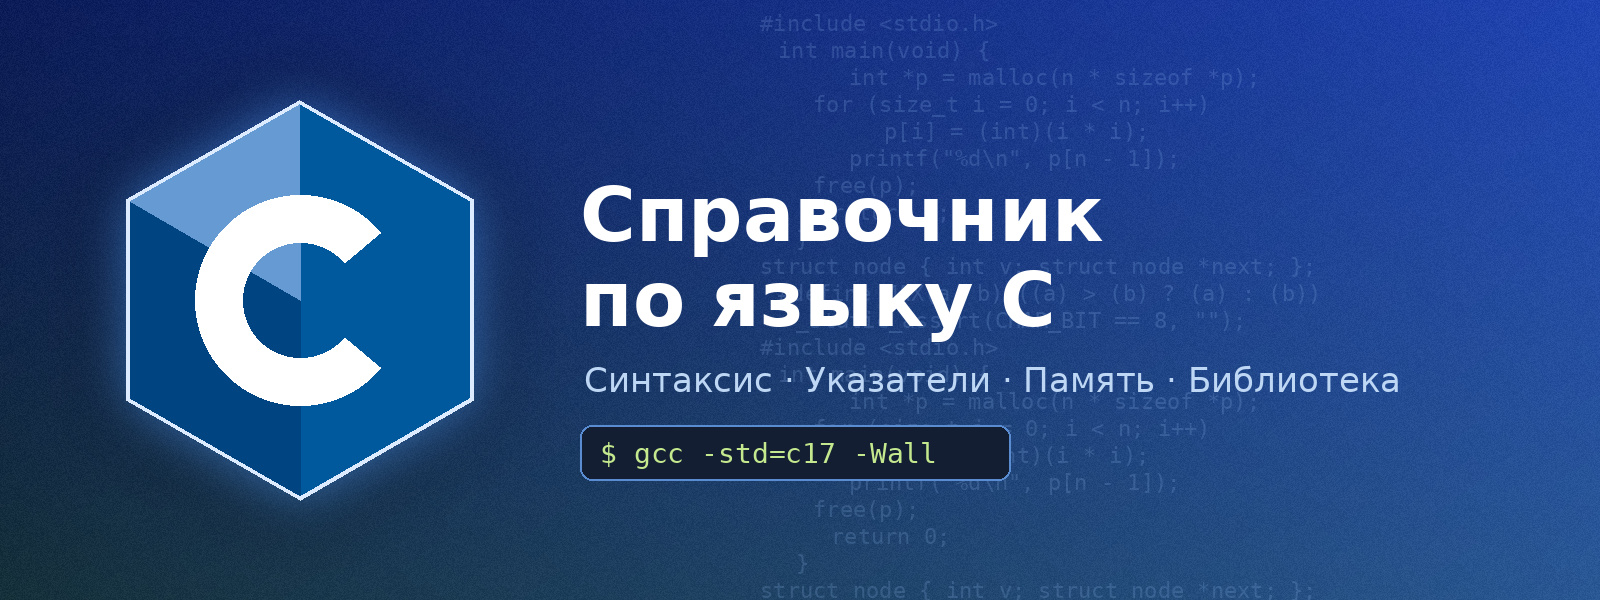
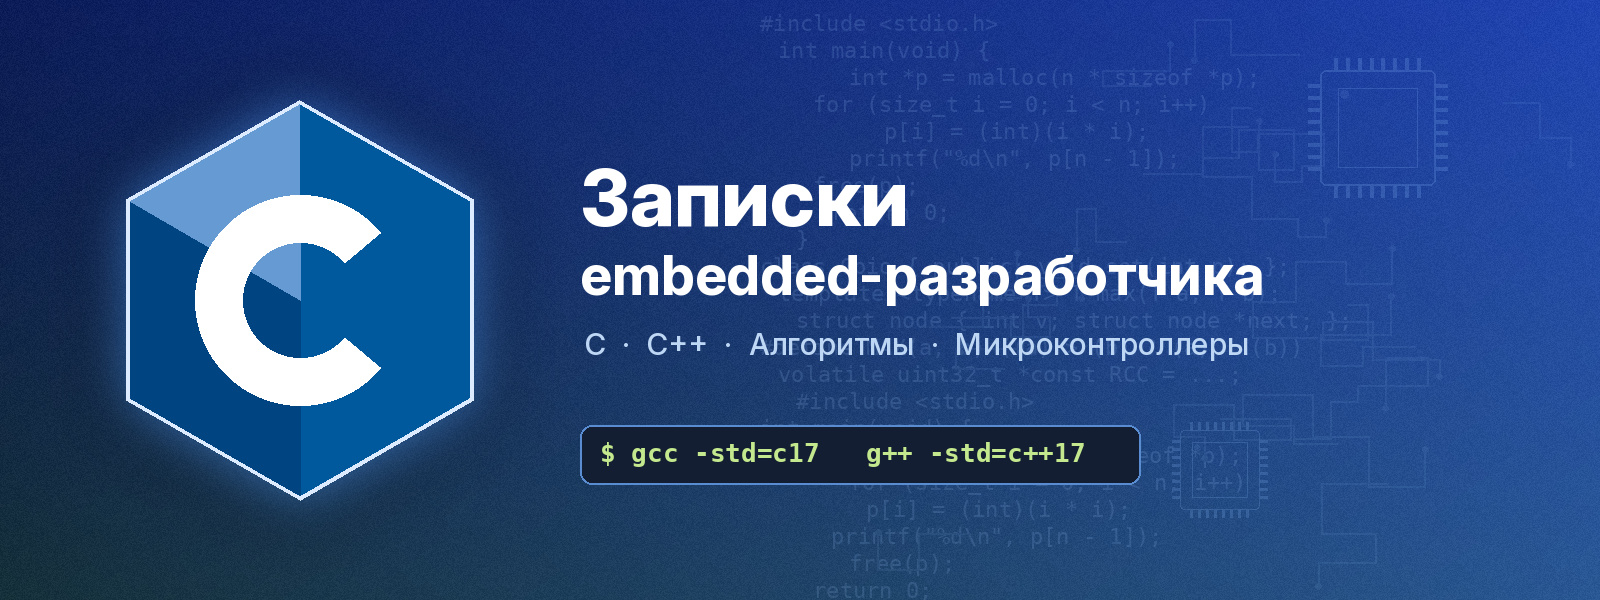
V2.2

diff --git a/index.html b/index.html
@@ -8,6 +8,8 @@
 <link rel="preload" href="assets/fonts/jetbrains-mono-latin-400.woff2" as="font" type="font/woff2" crossorigin>
 <link rel="stylesheet" href="style.css">
 <link rel="icon" href="assets/favicon.svg" type="image/svg+xml">
+<link rel="icon" href="assets/favicon.ico" sizes="48x48 32x32 16x16">
+<link rel="apple-touch-icon" href="assets/apple-touch-icon.png" sizes="180x180">
 </head>
 <body>
 <header class="topbar">
@@ -69,9 +71,10 @@
 <img class="hero" src="image.jpg" alt="Баннер: Записки embedded-разработчика" width="1600" height="600">
 <h1>Записки embedded-разработчика</h1>
 
-<p class="lead">Это уже не только справочник по C. Здесь собраны четыре темы, которые нужны
-embedded-разработчику: язык <b>C</b> (C11/C17), введение в <b>C++17</b>, <b>общие вопросы</b>
-(алгоритмы, структуры данных, FAQ) и задел под <b>программирование микроконтроллеров</b>.</p>
+<p class="lead">Краткие записки и справочные материалы для embedded-разработчика.
+На сайте собраны разделы по языку <b>C</b> (C11/C17), введение в <b>C++17</b>,
+общие темы — алгоритмы и структуры данных — и программирование микроконтроллеров
+(раздел пока в разработке).</p>
 <p>Примеры на C компилируются командой <code>gcc -std=c17 -Wall -Wextra</code>,
 примеры на C++ — командой <code>g++ -std=c++17 -Wall -Wextra</code> без предупреждений.</p>
 
@@ -144,17 +147,16 @@ embedded-разработчику: язык <b>C</b> (C11/C17), введение
 </section>
 
 <h2>О сайте</h2>
-<p>Сайт сделан как индивидуальный проект к лабораторной работе 2.1 «Настройка CDN для статического веб-сайта».
-Это набор однотипных HTML-страниц с общей таблицей стилей <code>style.css</code>, локальным подсветчиком
-синтаксиса (<a href="assets/js/PRISM-LICENSE.txt">Prism, лицензия MIT</a>) и локальным шрифтом JetBrains Mono
-(<a href="assets/fonts/OFL.txt">SIL Open Font License</a>). Внешних CDN-зависимостей нет, поэтому весь
-трафик идёт с Origin-сервера и удобно анализируется в Cloudflare: HTML-страницы дают высокий Cache Hit Ratio,
-а шрифты, CSS и JS подходят для долгого TTL.</p>
+<p>Сайт сделан как мини-проект: набор однотипных HTML-страниц с общей таблицей стилей <code>style.css</code>,
+локальным подсветчиком синтаксиса (<a href="assets/js/PRISM-LICENSE.txt">Prism, лицензия MIT</a>)
+и локальным шрифтом JetBrains Mono (<a href="assets/fonts/OFL.txt">SIL Open Font License</a>).
+Внешних CDN-зависимостей нет, поэтому весь трафик идёт с Origin-сервера и удобно анализируется
+в Cloudflare: HTML-страницы дают высокий Cache Hit Ratio, а шрифты, CSS и JS подходят для долгого TTL.</p>
 <nav class="pager" aria-label="Соседние страницы"><a class="next" href="c/index.html">Обзор языка C →</a></nav>
 </main>
 </div>
 <footer class="footer">
-<p>Записки embedded-разработчика — учебный проект для лабораторной работы «Настройка CDN для статического веб-сайта».
+<p>Записки embedded-разработчика — мини-проект.
 Подсветка: <a href="assets/js/PRISM-LICENSE.txt">Prism (MIT)</a>. Шрифт: JetBrains Mono (<a href="assets/fonts/OFL.txt">OFL 1.1</a>).</p>
 </footer>
 <script src="assets/js/prism.js"></script>

diff --git a/language/functions.html b/language/functions.html
@@ -8,6 +8,8 @@
 <link rel="preload" href="../assets/fonts/jetbrains-mono-latin-400.woff2" as="font" type="font/woff2" crossorigin>
 <link rel="stylesheet" href="../style.css">
 <link rel="icon" href="../assets/favicon.svg" type="image/svg+xml">
+<link rel="icon" href="../assets/favicon.ico" sizes="48x48 32x32 16x16">
+<link rel="apple-touch-icon" href="../assets/apple-touch-icon.png" sizes="180x180">
 </head>
 <body>
 <header class="topbar">
@@ -216,7 +218,7 @@ int main(int argc, char *argv[])
 </main>
 </div>
 <footer class="footer">
-<p>Записки embedded-разработчика — учебный проект для лабораторной работы «Настройка CDN для статического веб-сайта».
+<p>Записки embedded-разработчика — мини-проект.
 Подсветка: <a href="../assets/js/PRISM-LICENSE.txt">Prism (MIT)</a>. Шрифт: JetBrains Mono (<a href="../assets/fonts/OFL.txt">OFL 1.1</a>).</p>
 </footer>
 <script src="../assets/js/prism.js"></script>

diff --git a/library/file-io.html b/library/file-io.html
@@ -8,6 +8,8 @@
 <link rel="preload" href="../assets/fonts/jetbrains-mono-latin-400.woff2" as="font" type="font/woff2" crossorigin>
 <link rel="stylesheet" href="../style.css">
 <link rel="icon" href="../assets/favicon.svg" type="image/svg+xml">
+<link rel="icon" href="../assets/favicon.ico" sizes="48x48 32x32 16x16">
+<link rel="apple-touch-icon" href="../assets/apple-touch-icon.png" sizes="180x180">
 </head>
 <body>
 <header class="topbar">
@@ -209,7 +211,7 @@ int main(int argc, char *argv[])
 </main>
 </div>
 <footer class="footer">
-<p>Записки embedded-разработчика — учебный проект для лабораторной работы «Настройка CDN для статического веб-сайта».
+<p>Записки embedded-разработчика — мини-проект.
 Подсветка: <a href="../assets/js/PRISM-LICENSE.txt">Prism (MIT)</a>. Шрифт: JetBrains Mono (<a href="../assets/fonts/OFL.txt">OFL 1.1</a>).</p>
 </footer>
 <script src="../assets/js/prism.js"></script>

diff --git a/cpp/differences.html b/cpp/differences.html
@@ -8,6 +8,8 @@
 <link rel="preload" href="../assets/fonts/jetbrains-mono-latin-400.woff2" as="font" type="font/woff2" crossorigin>
 <link rel="stylesheet" href="../style.css">
 <link rel="icon" href="../assets/favicon.svg" type="image/svg+xml">
+<link rel="icon" href="../assets/favicon.ico" sizes="48x48 32x32 16x16">
+<link rel="apple-touch-icon" href="../assets/apple-touch-icon.png" sizes="180x180">
 </head>
 <body>
 <header class="topbar">
@@ -174,7 +176,7 @@ int add(int a, int b);
 </main>
 </div>
 <footer class="footer">
-<p>Записки embedded-разработчика — учебный проект для лабораторной работы «Настройка CDN для статического веб-сайта».
+<p>Записки embedded-разработчика — мини-проект.
 Подсветка: <a href="../assets/js/PRISM-LICENSE.txt">Prism (MIT)</a>. Шрифт: JetBrains Mono (<a href="../assets/fonts/OFL.txt">OFL 1.1</a>).</p>
 </footer>
 <script src="../assets/js/prism.js"></script>

diff --git a/algorithms/complexity.html b/algorithms/complexity.html
@@ -8,6 +8,8 @@
 <link rel="preload" href="../assets/fonts/jetbrains-mono-latin-400.woff2" as="font" type="font/woff2" crossorigin>
 <link rel="stylesheet" href="../style.css">
 <link rel="icon" href="../assets/favicon.svg" type="image/svg+xml">
+<link rel="icon" href="../assets/favicon.ico" sizes="48x48 32x32 16x16">
+<link rel="apple-touch-icon" href="../assets/apple-touch-icon.png" sizes="180x180">
 </head>
 <body>
 <header class="topbar">
@@ -128,7 +130,7 @@ int main(void)
 </main>
 </div>
 <footer class="footer">
-<p>Записки embedded-разработчика — учебный проект для лабораторной работы «Настройка CDN для статического веб-сайта».
+<p>Записки embedded-разработчика — мини-проект.
 Подсветка: <a href="../assets/js/PRISM-LICENSE.txt">Prism (MIT)</a>. Шрифт: JetBrains Mono (<a href="../assets/fonts/OFL.txt">OFL 1.1</a>).</p>
 </footer>
 <script src="../assets/js/prism.js"></script>

diff --git a/algorithms/data-structures.html b/algorithms/data-structures.html
@@ -8,6 +8,8 @@
 <link rel="preload" href="../assets/fonts/jetbrains-mono-latin-400.woff2" as="font" type="font/woff2" crossorigin>
 <link rel="stylesheet" href="../style.css">
 <link rel="icon" href="../assets/favicon.svg" type="image/svg+xml">
+<link rel="icon" href="../assets/favicon.ico" sizes="48x48 32x32 16x16">
+<link rel="apple-touch-icon" href="../assets/apple-touch-icon.png" sizes="180x180">
 </head>
 <body>
 <header class="topbar">
@@ -234,7 +236,7 @@ int main(void)
 </main>
 </div>
 <footer class="footer">
-<p>Записки embedded-разработчика — учебный проект для лабораторной работы «Настройка CDN для статического веб-сайта».
+<p>Записки embedded-разработчика — мини-проект.
 Подсветка: <a href="../assets/js/PRISM-LICENSE.txt">Prism (MIT)</a>. Шрифт: JetBrains Mono (<a href="../assets/fonts/OFL.txt">OFL 1.1</a>).</p>
 </footer>
 <script src="../assets/js/prism.js"></script>

diff --git a/algorithms/primes.html b/algorithms/primes.html
@@ -8,6 +8,8 @@
 <link rel="preload" href="../assets/fonts/jetbrains-mono-latin-400.woff2" as="font" type="font/woff2" crossorigin>
 <link rel="stylesheet" href="../style.css">
 <link rel="icon" href="../assets/favicon.svg" type="image/svg+xml">
+<link rel="icon" href="../assets/favicon.ico" sizes="48x48 32x32 16x16">
+<link rel="apple-touch-icon" href="../assets/apple-touch-icon.png" sizes="180x180">
 </head>
 <body>
 <header class="topbar">
@@ -142,7 +144,7 @@ int main(void)
 </main>
 </div>
 <footer class="footer">
-<p>Записки embedded-разработчика — учебный проект для лабораторной работы «Настройка CDN для статического веб-сайта».
+<p>Записки embedded-разработчика — мини-проект.
 Подсветка: <a href="../assets/js/PRISM-LICENSE.txt">Prism (MIT)</a>. Шрифт: JetBrains Mono (<a href="../assets/fonts/OFL.txt">OFL 1.1</a>).</p>
 </footer>
 <script src="../assets/js/prism.js"></script>

diff --git a/algorithms/recursion.html b/algorithms/recursion.html
@@ -8,6 +8,8 @@
 <link rel="preload" href="../assets/fonts/jetbrains-mono-latin-400.woff2" as="font" type="font/woff2" crossorigin>
 <link rel="stylesheet" href="../style.css">
 <link rel="icon" href="../assets/favicon.svg" type="image/svg+xml">
+<link rel="icon" href="../assets/favicon.ico" sizes="48x48 32x32 16x16">
+<link rel="apple-touch-icon" href="../assets/apple-touch-icon.png" sizes="180x180">
 </head>
 <body>
 <header class="topbar">
@@ -151,7 +153,7 @@ int main(void)
 </main>
 </div>
 <footer class="footer">
-<p>Записки embedded-разработчика — учебный проект для лабораторной работы «Настройка CDN для статического веб-сайта».
+<p>Записки embedded-разработчика — мини-проект.
 Подсветка: <a href="../assets/js/PRISM-LICENSE.txt">Prism (MIT)</a>. Шрифт: JetBrains Mono (<a href="../assets/fonts/OFL.txt">OFL 1.1</a>).</p>
 </footer>
 <script src="../assets/js/prism.js"></script>

diff --git a/algorithms/search.html b/algorithms/search.html
@@ -8,6 +8,8 @@
 <link rel="preload" href="../assets/fonts/jetbrains-mono-latin-400.woff2" as="font" type="font/woff2" crossorigin>
 <link rel="stylesheet" href="../style.css">
 <link rel="icon" href="../assets/favicon.svg" type="image/svg+xml">
+<link rel="icon" href="../assets/favicon.ico" sizes="48x48 32x32 16x16">
+<link rel="apple-touch-icon" href="../assets/apple-touch-icon.png" sizes="180x180">
 </head>
 <body>
 <header class="topbar">
@@ -146,7 +148,7 @@ int main(void)
 </main>
 </div>
 <footer class="footer">
-<p>Записки embedded-разработчика — учебный проект для лабораторной работы «Настройка CDN для статического веб-сайта».
+<p>Записки embedded-разработчика — мини-проект.
 Подсветка: <a href="../assets/js/PRISM-LICENSE.txt">Prism (MIT)</a>. Шрифт: JetBrains Mono (<a href="../assets/fonts/OFL.txt">OFL 1.1</a>).</p>
 </footer>
 <script src="../assets/js/prism.js"></script>

diff --git a/algorithms/sorting.html b/algorithms/sorting.html
@@ -8,6 +8,8 @@
 <link rel="preload" href="../assets/fonts/jetbrains-mono-latin-400.woff2" as="font" type="font/woff2" crossorigin>
 <link rel="stylesheet" href="../style.css">
 <link rel="icon" href="../assets/favicon.svg" type="image/svg+xml">
+<link rel="icon" href="../assets/favicon.ico" sizes="48x48 32x32 16x16">
+<link rel="apple-touch-icon" href="../assets/apple-touch-icon.png" sizes="180x180">
 </head>
 <body>
 <header class="topbar">
@@ -289,7 +291,7 @@ int main(void)
 </main>
 </div>
 <footer class="footer">
-<p>Записки embedded-разработчика — учебный проект для лабораторной работы «Настройка CDN для статического веб-сайта».
+<p>Записки embedded-разработчика — мини-проект.
 Подсветка: <a href="../assets/js/PRISM-LICENSE.txt">Prism (MIT)</a>. Шрифт: JetBrains Mono (<a href="../assets/fonts/OFL.txt">OFL 1.1</a>).</p>
 </footer>
 <script src="../assets/js/prism.js"></script>

diff --git a/basics/control-flow.html b/basics/control-flow.html
@@ -8,6 +8,8 @@
 <link rel="preload" href="../assets/fonts/jetbrains-mono-latin-400.woff2" as="font" type="font/woff2" crossorigin>
 <link rel="stylesheet" href="../style.css">
 <link rel="icon" href="../assets/favicon.svg" type="image/svg+xml">
+<link rel="icon" href="../assets/favicon.ico" sizes="48x48 32x32 16x16">
+<link rel="apple-touch-icon" href="../assets/apple-touch-icon.png" sizes="180x180">
 </head>
 <body>
 <header class="topbar">
@@ -201,7 +203,7 @@ int main(void)
 </main>
 </div>
 <footer class="footer">
-<p>Записки embedded-разработчика — учебный проект для лабораторной работы «Настройка CDN для статического веб-сайта».
+<p>Записки embedded-разработчика — мини-проект.
 Подсветка: <a href="../assets/js/PRISM-LICENSE.txt">Prism (MIT)</a>. Шрифт: JetBrains Mono (<a href="../assets/fonts/OFL.txt">OFL 1.1</a>).</p>
 </footer>
 <script src="../assets/js/prism.js"></script>

diff --git a/basics/syntax.html b/basics/syntax.html
@@ -8,6 +8,8 @@
 <link rel="preload" href="../assets/fonts/jetbrains-mono-latin-400.woff2" as="font" type="font/woff2" crossorigin>
 <link rel="stylesheet" href="../style.css">
 <link rel="icon" href="../assets/favicon.svg" type="image/svg+xml">
+<link rel="icon" href="../assets/favicon.ico" sizes="48x48 32x32 16x16">
+<link rel="apple-touch-icon" href="../assets/apple-touch-icon.png" sizes="180x180">
 </head>
 <body>
 <header class="topbar">
@@ -160,7 +162,7 @@ int main(void)
 </main>
 </div>
 <footer class="footer">
-<p>Записки embedded-разработчика — учебный проект для лабораторной работы «Настройка CDN для статического веб-сайта».
+<p>Записки embedded-разработчика — мини-проект.
 Подсветка: <a href="../assets/js/PRISM-LICENSE.txt">Prism (MIT)</a>. Шрифт: JetBrains Mono (<a href="../assets/fonts/OFL.txt">OFL 1.1</a>).</p>
 </footer>
 <script src="../assets/js/prism.js"></script>
